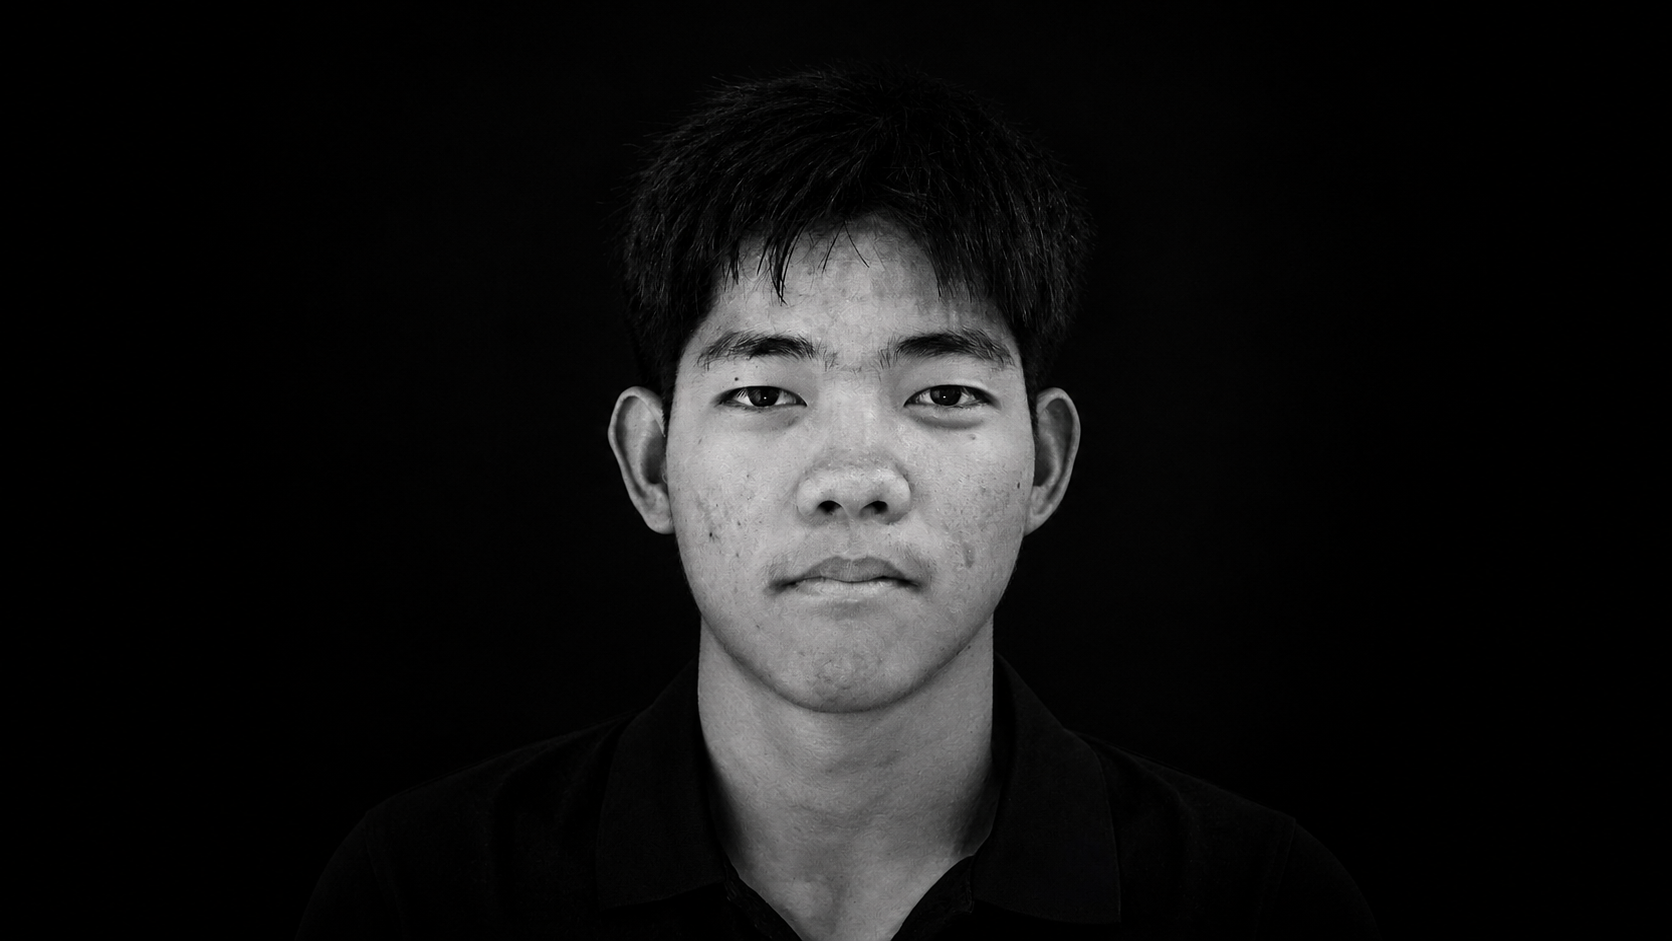
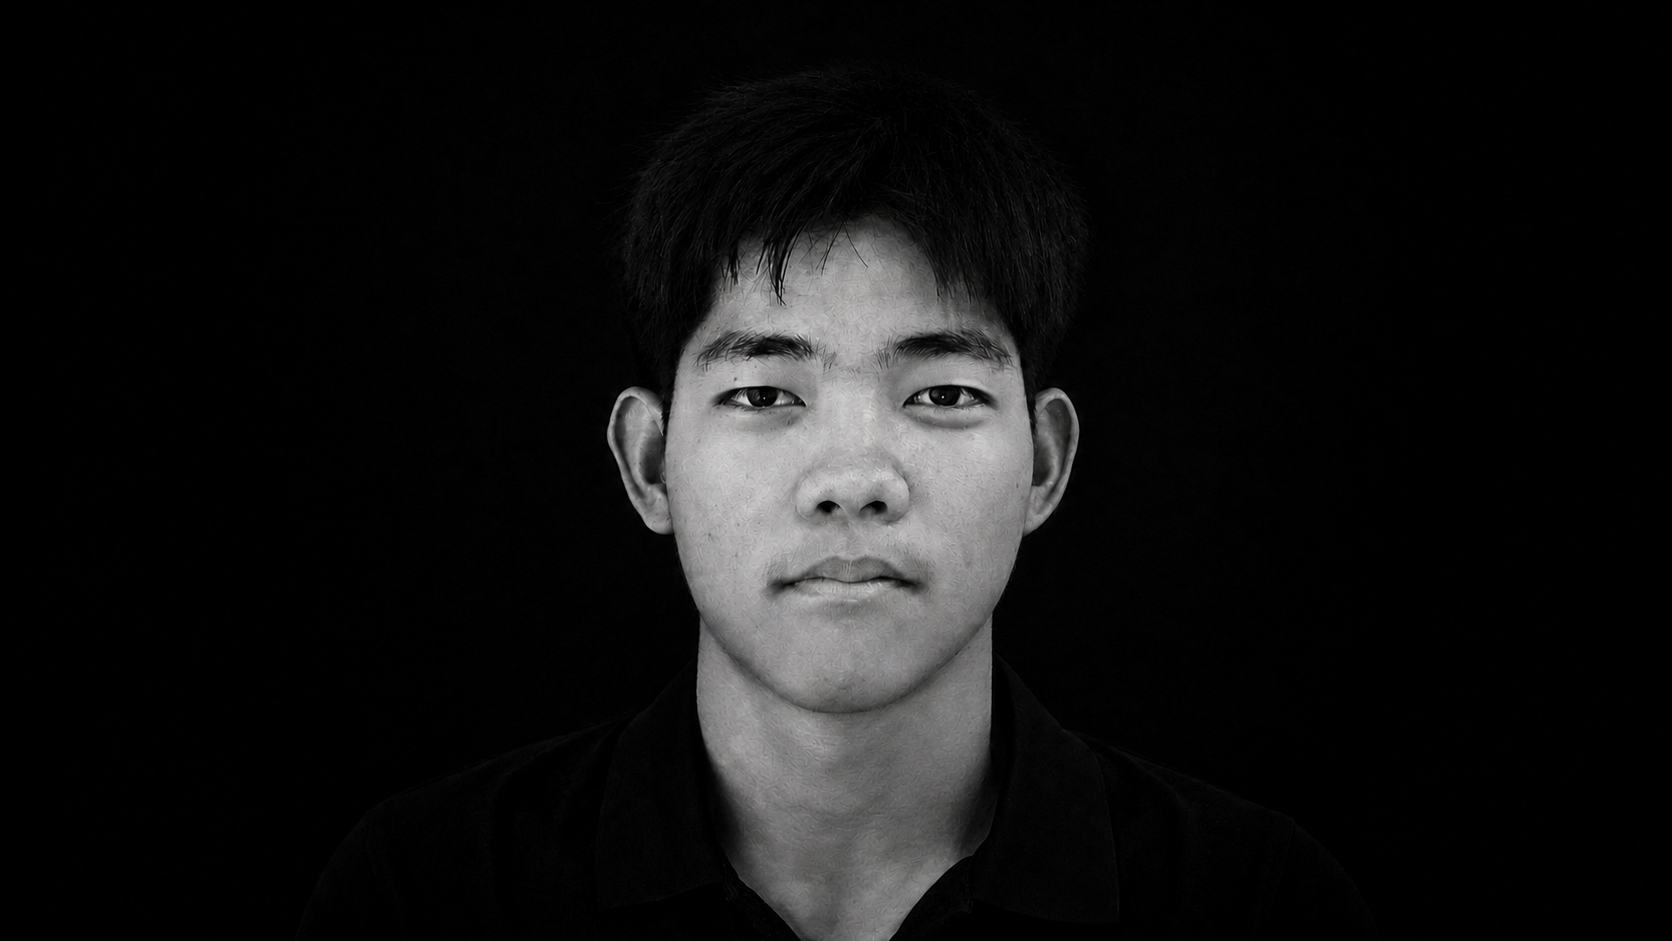
refine animated portrait hero

diff --git a/src/styles/profile-and-hobbies.css b/src/styles/profile-and-hobbies.css
@@ -1,4 +1,6 @@
 /* Homepage portrait composition */
+.home-clean { --home-pink: #8870ff; --home-acid: #c9ff5f; }
+
 .profile-hero {
   position: relative;
   width: 100%;
@@ -18,6 +20,8 @@
   object-fit: cover;
   object-position: center top;
   filter: grayscale(1) contrast(1.08);
+  transform: scale(.84);
+  transform-origin: center 44%;
   user-select: none;
 }
 
@@ -98,13 +102,7 @@
 }
 
 .profile-nameplate::after {
-  content: '';
-  position: absolute;
-  left: -13px;
-  bottom: -15px;
-  border: 10px solid transparent;
-  border-top-color: var(--home-pink);
-  rotate: -28deg;
+  content: none;
 }
 
 .profile-nameplate small {
@@ -157,6 +155,39 @@
   background: #17130d;
 }
 
+.profile-orbit {
+  position: absolute;
+  z-index: 4;
+  left: 50%;
+  top: 45%;
+  width: clamp(370px, 47vw, 650px);
+  aspect-ratio: 1;
+  transform: translate(-50%, -50%);
+  pointer-events: none;
+}
+
+.profile-orbit::before,
+.profile-orbit::after {
+  content: none;
+}
+
+.profile-orbit-pointer {
+  position: absolute;
+  display: flex;
+  align-items: center;
+  gap: 8px;
+  padding: 7px 10px;
+  border: 1px solid rgba(201,255,95,.4);
+  background: rgba(4,4,4,.72);
+  color: var(--home-acid);
+  box-shadow: 0 9px 28px rgba(0,0,0,.38);
+  backdrop-filter: blur(10px);
+  animation: profile-arc-sweep 6.8s cubic-bezier(.45,0,.55,1) infinite alternate;
+}
+
+.profile-orbit-pointer i { font: 700 16px/1 "Space Grotesk", sans-serif; }
+.profile-orbit-pointer b { font: 700 7px/1 "JetBrains Mono", monospace; letter-spacing: .12em; white-space: nowrap; }
+
 .profile-hero h1 {
   position: absolute;
   z-index: 3;
@@ -167,11 +198,36 @@
   margin: 0;
   font: 700 clamp(6rem, 12.2vw, 12.7rem)/.77 "Space Grotesk", sans-serif;
   letter-spacing: -.085em;
-  color: #efefed;
-  text-shadow: 0 14px 45px rgba(0,0,0,.32);
+  color: #f4f3ef;
+  text-shadow:
+    0 2px 0 #c8c8c7,
+    0 7px 0 #34343d,
+    0 12px 24px rgba(0,0,0,.75),
+    5px 8px 0 rgba(136,112,255,.16);
 }
 
-.profile-hero h1 em { color: var(--home-pink); font-style: normal; }
+.typing-line { display: inline-grid; position: relative; }
+.typing-line::before,
+.typing-line > span { grid-area: 1 / 1; }
+.typing-line::before { content: attr(data-copy); visibility: hidden; }
+.typing-line.is-typing::after {
+  content: '';
+  width: .035em;
+  height: .72em;
+  margin-left: .055em;
+  align-self: center;
+  background: var(--home-acid);
+  animation: typing-caret .7s steps(1) infinite;
+}
+
+.profile-hero h1 em {
+  display: inline-block;
+  color: var(--home-acid);
+  font-style: normal;
+  text-shadow: 0 5px 0 #43531f, 0 10px 20px rgba(0,0,0,.65);
+  transform: translateY(-.02em) scale(.78);
+  transform-origin: left bottom;
+}
 
 .profile-bottom {
   position: absolute;
@@ -201,6 +257,16 @@
 
 .profile-bottom a span { color: var(--home-pink); }
 .profile-status-message { display: none; }
+
+@keyframes profile-arc-sweep {
+  0% { left: 4%; top: 68%; transform: translate(-50%,-50%) rotate(13deg); }
+  25% { left: 20%; top: 25%; transform: translate(-50%,-50%) rotate(8deg); }
+  50% { left: 50%; top: 4%; transform: translate(-50%,-50%) rotate(0); }
+  75% { left: 80%; top: 25%; transform: translate(-50%,-50%) rotate(-8deg); }
+  100% { left: 96%; top: 68%; transform: translate(-50%,-50%) rotate(-13deg); }
+}
+
+@keyframes typing-caret { 50% { opacity: 0; } }
 
 /* Real hobby photography */
 .hobby-card > img {
@@ -239,7 +305,7 @@
 
 @media (max-width: 600px) {
   .profile-hero { min-height: 780px; }
-  .profile-portrait { object-position: 54% top; }
+  .profile-portrait { object-position: 54% top; transform: scale(.88); transform-origin: center 43%; }
   .profile-shade {
     background:
       linear-gradient(180deg, rgba(0,0,0,.05), transparent 34%, #020202 88%),
@@ -251,10 +317,17 @@
   .profile-location strong { font-size: 10px; }
   .profile-location span { font-size: 9px; }
   .profile-nameplate { top: 155px; right: 18px; }
+  .profile-orbit { top: 44%; width: 105vw; }
+  .profile-orbit-pointer b { display: none; }
   .profile-hero h1 { top: 56%; width: calc(100% - 30px); font-size: 20vw; line-height: .81; }
   .profile-bottom { bottom: 28px; width: calc(100% - 36px); display: block; }
   .profile-bottom p { max-width: 260px; }
   .profile-bottom a { display: inline-block; margin-top: 18px; }
   .hobby-card > img { width: calc(100% + 36px); height: 250px; margin-inline: -18px; }
   .hobby-detail-cover { width: calc(100% - 32px); }
+}
+
+@media (prefers-reduced-motion: reduce) {
+  .profile-orbit-pointer { animation: none; }
+  .profile-orbit-pointer { left: 50%; top: 4%; transform: translate(-50%,-50%); }
 }
